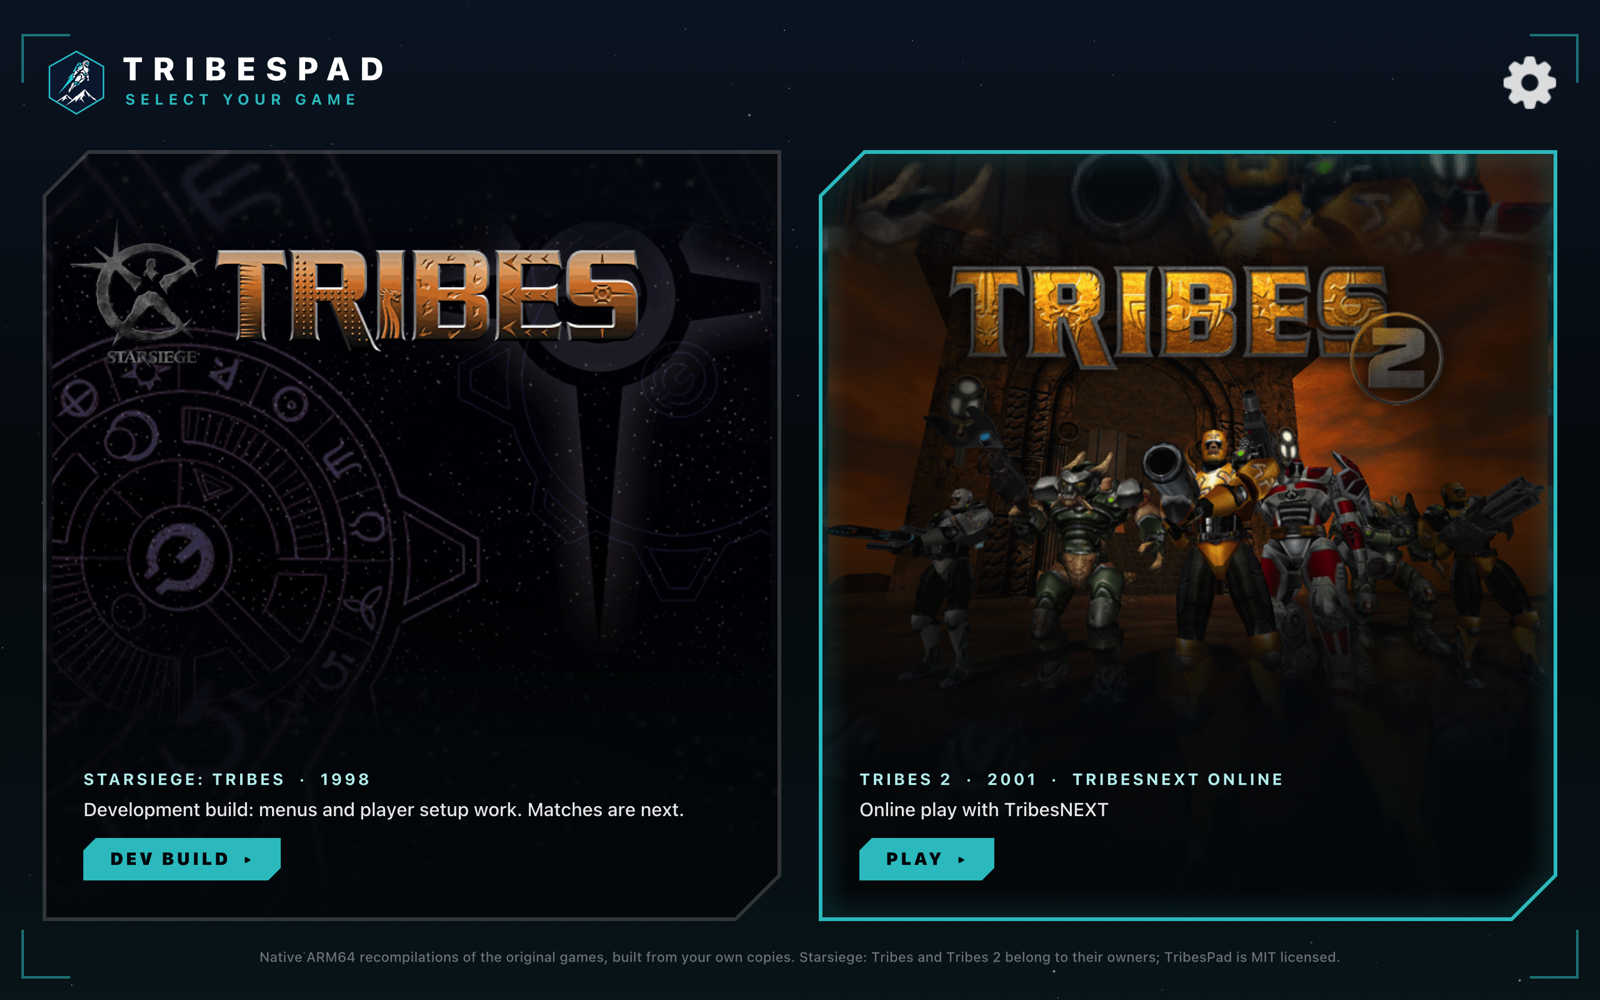
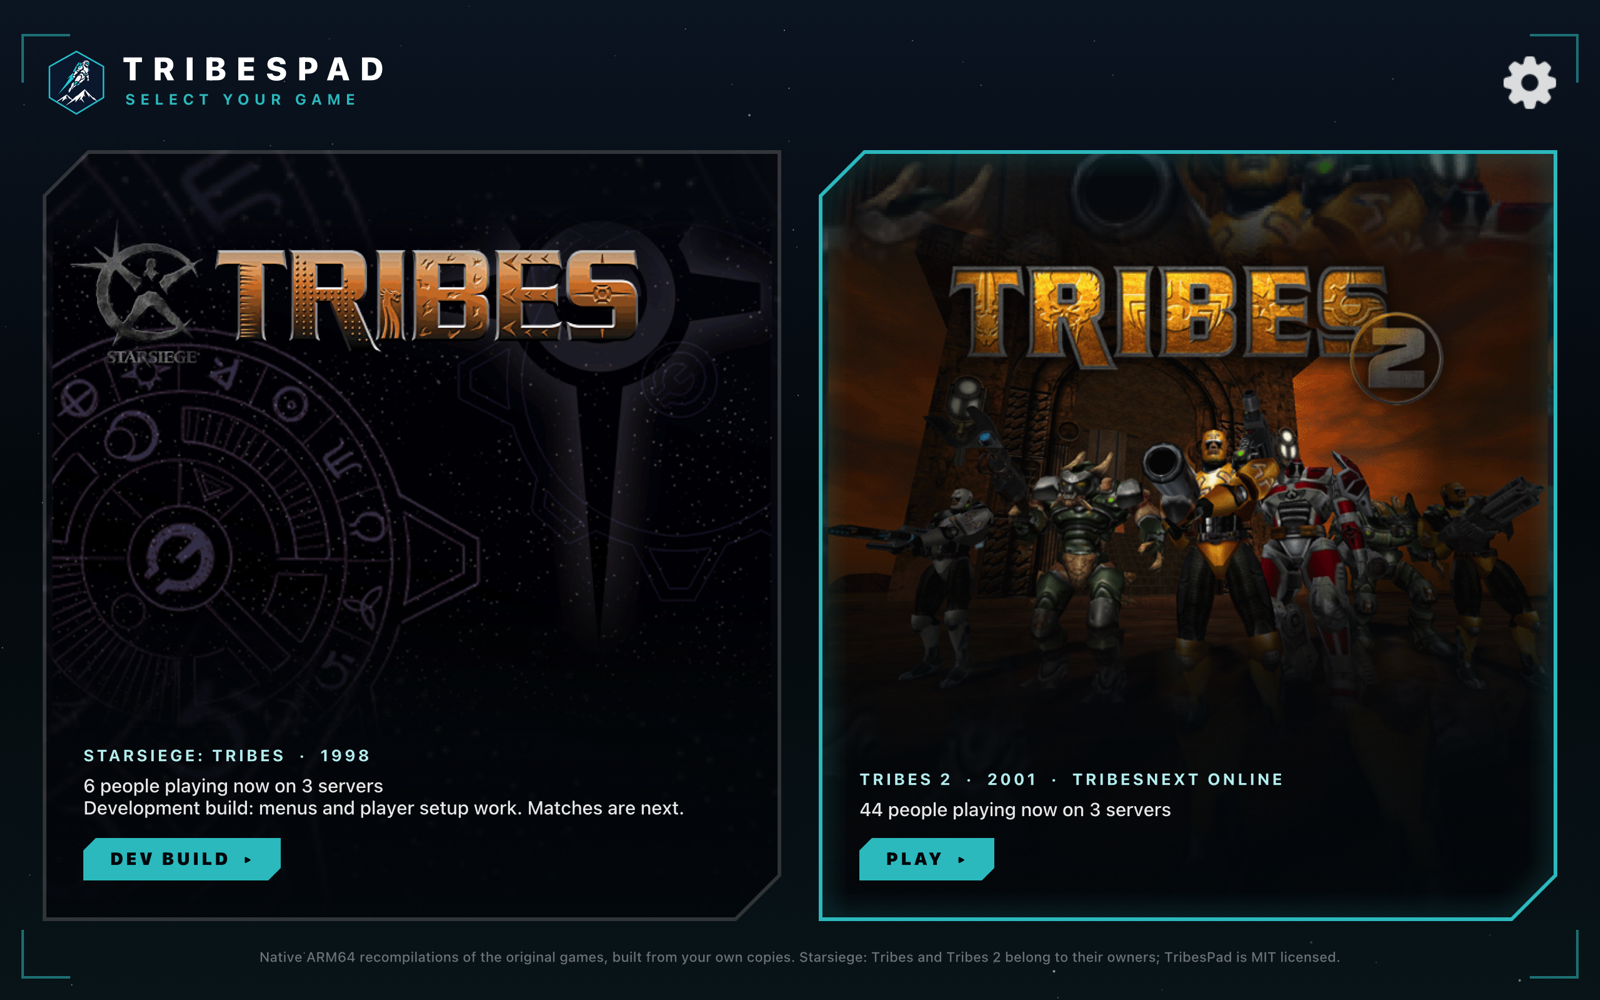
Pickers: Starsiege card shows who is playing Tribes 1 now (t1_live.c, community masters and the game's own server ping)

Changed region(s): [[0.0312, 0.744, 0.4375, 0.837], [0.5312, 0.806, 0.7188, 0.837]]

diff --git a/port/apple/t1_live.c b/port/apple/t1_live.c
@@ -1,0 +1,83 @@
+/* Who is playing Starsiege: Tribes right now, for the game picker. The
+ * community masters (t1m1-3.tribes1.co and t1m1-3.pu.net, port 28000) list
+ * servers; each server answers the game's own ping with its player count and
+ * name. The wire format follows the masters' maintainer's library, t1net-go
+ * (github.com/TheKigen/t1net-go, master.go and tribes.go, Apache-2.0):
+ *   query, to a master or a server: 10 03 FF 00 key(2, LE) 00 00
+ *   master reply: 10 06 n total key(2) 00 66 name(pascal) motd(pascal)
+ *                 count(2, BE) then count x [06 ip(4) port(2, LE)], n of total
+ *   server reply: 10 04 ?? F0 key(2) max players version(2, LE) name(zero-terminated)
+ * Read-only UDP, the same questions the game's own browser asks. */
+#include "t1_live.h"
+#include <arpa/inet.h>
+#include <fcntl.h>
+#include <netdb.h>
+#include <poll.h>
+#include <stdlib.h>
+#include <string.h>
+#include <sys/socket.h>
+#include <time.h>
+#include <unistd.h>
+
+static const char *const masters[]={"t1m1.tribes1.co","t1m2.tribes1.co","t1m3.tribes1.co","t1m1.pu.net","t1m2.pu.net","t1m3.pu.net"};
+typedef struct {struct sockaddr_in address;int answered,players;char name[64];} Server;
+
+static long now_ms(void){struct timespec t;clock_gettime(CLOCK_MONOTONIC,&t);return t.tv_sec*1000L+t.tv_nsec/1000000L;}
+static int same(const struct sockaddr_in *a,const struct sockaddr_in *b){return a->sin_addr.s_addr==b->sin_addr.s_addr&&a->sin_port==b->sin_port;}
+
+int tb_t1_live(TBT1Live *out,int timeout_ms){
+    memset(out,0,sizeof *out);
+    int fd=socket(AF_INET,SOCK_DGRAM,0);if(fd<0)return 0;
+    fcntl(fd,F_SETFL,fcntl(fd,F_GETFL)|O_NONBLOCK);
+    uint16_t key=(uint16_t)arc4random();
+    uint8_t query[8]={0x10,0x03,0xff,0x00,(uint8_t)key,(uint8_t)(key>>8),0,0};
+    /* Ask every master; their lists overlap, so servers are merged. */
+    struct sockaddr_in master_addresses[6];int master_count=0;
+    for(unsigned i=0;i<sizeof masters/sizeof *masters;i++){
+        struct addrinfo hints={0},*found=NULL;hints.ai_family=AF_INET;hints.ai_socktype=SOCK_DGRAM;
+        if(getaddrinfo(masters[i],"28000",&hints,&found)||!found)continue;
+        struct sockaddr_in a=*(struct sockaddr_in *)found->ai_addr;freeaddrinfo(found);
+        int duplicate=0;for(int j=0;j<master_count;j++)if(same(&a,&master_addresses[j]))duplicate=1;
+        if(duplicate)continue;master_addresses[master_count++]=a;
+        sendto(fd,query,sizeof query,0,(struct sockaddr *)&a,sizeof a);
+    }
+    Server *servers=calloc(1000,sizeof *servers);int count=0;if(!servers){close(fd);return 0;}
+    uint8_t d[65536];long master_end=now_ms()+timeout_ms/2,end=now_ms()+timeout_ms;int pinged=0;
+    while(now_ms()<end){
+        /* Once the masters have had their time, ping every listed server once. */
+        if(!pinged&&now_ms()>=master_end){pinged=1;
+            for(int i=0;i<count;i++)sendto(fd,query,sizeof query,0,(struct sockaddr *)&servers[i].address,sizeof servers[i].address);
+            if(!count)break;}
+        struct pollfd p={fd,POLLIN,0};long left=(pinged?end:master_end)-now_ms();
+        if(poll(&p,1,(int)(left>0?left:1))<=0)continue;
+        struct sockaddr_in from;socklen_t length=sizeof from;
+        ssize_t n=recvfrom(fd,d,sizeof d,0,(struct sockaddr *)&from,&length);
+        if(n<8||d[0]!=0x10||d[4]!=(uint8_t)key||d[5]!=(uint8_t)(key>>8))continue;
+        if(d[1]==0x06&&d[6]==0x00&&d[7]==0x66){
+            out->masters_answered++;size_t i=8;
+            for(int s=0;s<2;s++){if(i>=(size_t)n)break;i+=1+d[i];}  /* name, motd */
+            if(i+2>(size_t)n)continue;unsigned listed=(unsigned)d[i]<<8|d[i+1];i+=2;
+            for(unsigned k=0;k<listed&&i+7<=(size_t)n&&count<1000;k++,i+=7){
+                if(d[i]!=6)break;struct sockaddr_in a={0};a.sin_len=sizeof a;a.sin_family=AF_INET;
+                memcpy(&a.sin_addr,d+i+1,4);a.sin_port=htons((uint16_t)(d[i+5]|d[i+6]<<8));
+                int duplicate=0;for(int j=0;j<count;j++)if(same(&a,&servers[j].address))duplicate=1;
+                if(!duplicate)servers[count++].address=a;
+            }
+        } else if(d[1]==0x04&&n>=10&&d[3]==0xf0){
+            for(int i=0;i<count;i++)if(same(&from,&servers[i].address)&&!servers[i].answered){
+                servers[i].answered=1;servers[i].players=d[7];
+                size_t len=0;while(10+len<(size_t)n&&d[10+len]&&len<sizeof servers[i].name-1)len++;
+                memcpy(servers[i].name,d+10,len);servers[i].name[len]=0;break;
+            }
+        }
+    }
+    close(fd);
+    out->servers_listed=count;
+    for(int i=0;i<count;i++)if(servers[i].answered){
+        out->servers_answered++;
+        if(servers[i].players>0){out->people+=servers[i].players;out->busy_servers++;
+            if(servers[i].players>out->top_players){out->top_players=servers[i].players;strlcpy(out->top_name,servers[i].name,sizeof out->top_name);}}
+    }
+    free(servers);
+    return out->masters_answered>0;
+}

diff --git a/port/apple/launcher_mac.m b/port/apple/launcher_mac.m
@@ -16,6 +16,7 @@
 #include <stdio.h>
 #include <unistd.h>
 #include "starsiege_paths.h"
+#include "t1_live.h"
 
 static NSString * const TBRepository=@"https://github.com/chrissotraidis/tribespad";
 static NSString * const TBStarsiegePlan=@"https://github.com/chrissotraidis/tribespad/blob/main/docs/STARSIEGE-TRIBES-PLAN.md";
@@ -226,8 +227,20 @@ static TBChoice tb_choice;
     pad.dpad.left.pressedChangedHandler=^(GCControllerButtonInput *b,float v,BOOL pressed){(void)b;(void)v;if(pressed)[weak moveFocus:-1];};
     pad.dpad.right.pressedChangedHandler=^(GCControllerButtonInput *b,float v,BOOL pressed){(void)b;(void)v;if(pressed)[weak moveFocus:1];};
 }
+/* People playing Starsiege: Tribes now, from the community masters (t1_live.c). */
+-(void)loadStarsiegePlayers{
+    __weak TBPickerView *weak=self;NSString *base=self.cards[0].statusText;
+    dispatch_async(dispatch_get_global_queue(QOS_CLASS_UTILITY,0),^{
+        TBT1Live live;int ok=tb_t1_live(&live,4000);
+        dispatch_async(dispatch_get_main_queue(),^{TBPickerView *me=weak;if(!me||!ok)return;
+            NSString *now=live.people?[NSString stringWithFormat:@"%d %@ playing now on %d %@",live.people,live.people==1?@"person":@"people",live.busy_servers,live.busy_servers==1?@"server":@"servers"]:
+                [NSString stringWithFormat:@"Nobody on the %d Tribes 1 servers right now",live.servers_answered];
+            me.cards[0].statusText=[NSString stringWithFormat:@"%@\n%@",now,base];});
+    });
+}
 /* People playing Tribes 2 now (players minus bots, TribesNEXT list.json). */
 -(void)loadPlayers{
+    [self loadStarsiegePlayers];
     NSMutableURLRequest *r=[NSMutableURLRequest requestWithURL:[NSURL URLWithString:@"https://www.tribesnext.com/list.json"]];
     [r setValue:@"TribesPad" forHTTPHeaderField:@"User-Agent"];r.timeoutInterval=8;__weak TBPickerView *weak=self;
     [[NSURLSession.sharedSession dataTaskWithRequest:r completionHandler:^(NSData *data,NSURLResponse *resp,NSError *error){
@@ -264,6 +277,8 @@ static void tb_snapshot(NSString *path){
     CGFloat w=1280,h=800;const char *size=getenv("TRIBESPAD_PICKER_SIZE");if(size){double a,b;if(sscanf(size,"%lfx%lf",&a,&b)==2){w=a;h=b;}}
     TBPickerView *view=[[TBPickerView alloc] initWithFrame:NSMakeRect(0,0,w,h)];[view layout];
     view.cards[1].statusText=@"Online play with TribesNEXT";
+    if(getenv("TRIBESPAD_PICKER_LIVE")){[view loadPlayers];NSDate *until=[NSDate dateWithTimeIntervalSinceNow:6];
+        while(until.timeIntervalSinceNow>0)[NSRunLoop.mainRunLoop runMode:NSDefaultRunLoopMode beforeDate:[NSDate dateWithTimeIntervalSinceNow:.1]];[view layout];}
     NSBitmapImageRep *rep=[[NSBitmapImageRep alloc] initWithBitmapDataPlanes:NULL pixelsWide:(NSInteger)(w*2) pixelsHigh:(NSInteger)(h*2) bitsPerSample:8 samplesPerPixel:4 hasAlpha:YES isPlanar:NO colorSpaceName:NSCalibratedRGBColorSpace bytesPerRow:0 bitsPerPixel:0];
     rep.size=NSMakeSize(w,h);NSGraphicsContext *g=[NSGraphicsContext graphicsContextWithBitmapImageRep:rep];
     CGContextRef cg=g.CGContext;CGContextTranslateCTM(cg,0,h);CGContextScaleCTM(cg,1,-1);

diff --git a/scripts/build-ipad-engine.py b/scripts/build-ipad-engine.py
@@ -409,7 +409,7 @@ else:
  config='#define TB_BUNDLED_GAME_DATA 0\nstatic const char *launch_workdir='+json.dumps(str(R))+';\nstatic char *launch_arguments[]={'+','.join(json.dumps(p) for p in args)+',NULL};\n'
 (out/'mobile-engine-launch-config.h').write_text(config)
 host=[R/'port/apple/mobile_engine_main.m',R/'port/apple/mobile_game_paths.m',R/'port/apple/sdl_main.c',R/'port/apple/gl4es_context.c',R/'port/core/input.c']
-host+=[R/'port/apple/desktop_controls.c'] if mac else [R/'port/apple/mobile_controls.m',R/'port/apple/launcher.m',R/'port/apple/starsiege_paths.m',R/'port/apple/mobile_controls.c',R/'port/apple/live_servers.m',R/'port/apple/content_area.m']
+host+=[R/'port/apple/desktop_controls.c'] if mac else [R/'port/apple/mobile_controls.m',R/'port/apple/launcher.m',R/'port/apple/starsiege_paths.m',R/'port/apple/t1_live.c',R/'port/apple/mobile_controls.c',R/'port/apple/live_servers.m',R/'port/apple/content_area.m']
 if a.angle:host.append(R/'port/apple/angle_sdl.c')
 command=['clang','-target',target,'-isysroot',sdk,'-O2','-I',str(out),*sdl_flags,*gl_flags,'-DNOX11','-DNOEGL','-DNO_LOADER','-DDEFAULT_ES=2','-isystem',str(R/'ref/gl4es/src'),*map(str,host),*objects,*([str(a.starsiege_object.resolve()),'-framework','ImageIO'] if a.starsiege_object and not mac else []),*gl_libraries,*libraries,*math['libraries'],*[str(R/n) for n in http['libraries']],str(R/al['library']),str(zbuild/'libz-ng.a'),'-lz','-lc++','-framework','Foundation','-framework','GameController','-framework','AVFoundation','-framework','CoreGraphics','-framework','CoreText','-framework','CoreFoundation','-framework','SystemConfiguration','-framework','AudioToolbox','-framework','CoreAudio',*(['-framework','AppKit','-framework','Metal','-framework','QuartzCore'] if mac else ['-framework','SafariServices']),'-o',str(exe)]
 command[1:1]=['-fobjc-arc']
@@ -417,7 +417,7 @@ with (out/'link.log').open('w') as log:subprocess.run(command,stdout=log,stderr=
 identifier='com.tribespad.full-engine.ipad'
 if mac:
  picker=contents/'MacOS'/'TribesPad'
- subprocess.run(['clang','-target',target,'-isysroot',sdk,'-fobjc-arc','-O2','-Wall','-Wextra','-Werror',str(R/'port/apple/launcher_mac.m'),str(R/'port/apple/starsiege_paths.m'),'-framework','AppKit','-framework','QuartzCore','-framework','GameController','-o',str(picker)],check=True)
+ subprocess.run(['clang','-target',target,'-isysroot',sdk,'-fobjc-arc','-O2','-Wall','-Wextra','-Werror',str(R/'port/apple/launcher_mac.m'),str(R/'port/apple/starsiege_paths.m'),str(R/'port/apple/t1_live.c'),'-framework','AppKit','-framework','QuartzCore','-framework','GameController','-o',str(picker)],check=True)
 from app_icon import compile_icon
 if mac:
  icon_keys=compile_icon(resources,'macos',minimum='12.0')

diff --git a/port/apple/launcher.m b/port/apple/launcher.m
@@ -12,6 +12,7 @@
 #include <stdlib.h>
 #include <string.h>
 #include "starsiege_paths.h"
+#include "t1_live.h"
 
 static NSString * const TBLaunchStarsiegePlan=@"https://github.com/chrissotraidis/tribespad/blob/main/docs/STARSIEGE-TRIBES-PLAN.md";
 static NSString * const TBLaunchRepository=@"https://github.com/chrissotraidis/tribespad";
@@ -259,8 +260,21 @@ static UIBezierPath *tb_chamfer(CGRect r,CGFloat c){
     [UIView animateWithDuration:.3 animations:^{self.view.alpha=0;card.transform=CGAffineTransformMakeScale(1.04,1.04);}
         completion:^(BOOL f){(void)f;tb_launch_game=game;tb_launch_chosen=YES;}];
 }
+/* People playing Starsiege: Tribes now, from the community masters (t1_live.c). */
+-(void)loadStarsiegePlayers {
+    __weak TBLauncherController *weak=self;NSString *base=self.cards[0].status.text;
+    dispatch_async(dispatch_get_global_queue(QOS_CLASS_UTILITY,0),^{
+        TBT1Live live;int ok=tb_t1_live(&live,4000);
+        dispatch_async(dispatch_get_main_queue(),^{
+            TBLauncherController *me=weak;if(!me||!ok)return;TBLauncherCard *card=me.cards[0];
+            NSString *now=live.people?[NSString stringWithFormat:@"%d %@ playing now on %d %@",live.people,live.people==1?@"person":@"people",live.busy_servers,live.busy_servers==1?@"server":@"servers"]:
+                [NSString stringWithFormat:@"Nobody on the %d Tribes 1 servers right now",live.servers_answered];
+            card.status.text=[NSString stringWithFormat:@"%@\n%@",now,base];[card setNeedsLayout];});
+    });
+}
 /* People playing Tribes 2 now (players minus bots, TribesNEXT list.json). */
 -(void)loadPlayers {
+    [self loadStarsiegePlayers];
     NSMutableURLRequest *r=[NSMutableURLRequest requestWithURL:[NSURL URLWithString:@"https://www.tribesnext.com/list.json"]];
     [r setValue:@"TribesPad" forHTTPHeaderField:@"User-Agent"];r.timeoutInterval=8;
     __weak TBLauncherController *weak=self;

diff --git a/port/apple/t1_live.h b/port/apple/t1_live.h
@@ -1,0 +1,12 @@
+/* Starsiege: Tribes population from the community masters (t1_live.c). */
+#ifndef TB_T1_LIVE_H
+#define TB_T1_LIVE_H
+typedef struct {
+    int masters_answered,servers_listed,servers_answered;
+    int people,busy_servers;   /* players on servers that answered; servers with anyone */
+    int top_players;char top_name[64];
+} TBT1Live;
+/* Blocking, up to timeout_ms (half for the masters, half for the servers).
+   Call it off the main thread. 1 when at least one master answered. */
+int tb_t1_live(TBT1Live *out,int timeout_ms);
+#endif

diff --git a/docs/LAUNCHER-PLAN.md b/docs/LAUNCHER-PLAN.md
@@ -64,8 +64,8 @@ The picker is built; Starsiege enters it one card state at a time. Each stage na
 - **P0, built:** port/apple/launcher.m runs in enter_engine before either engine starts. Tribes 2 plays, with its live player count from list.json. Starsiege shows its own title art and an amber "In development" label. The gear at the top right has Open Tribes 2 Directly and a GitHub link, and Settings → Display → Game Picker at Launch brings the picker back. Keyboard (arrows, 1 and 2, Return) and controller (D-pad, A) both work. Exit: Chris confirms it on the iPad.
 - **P1, invisible groundwork (with G0 and G1):** the per-game profile from section 3 and a storage root passed as a parameter, with Tribes 2 producing identical events in the touch-route replay. Starsiege's input is now the community 1.41 installer (162 MB), pinned in config/starsiege/inputs.json and prepared by scripts/starsiege/prepare-inputs.py (done 24 October). The picker's art step takes BrightLogo.png from its base/Shell.zip, so the freeware installer is no longer needed for the card. Add the TBGame value that launcher.m returns to enter_engine, still always Tribes 2. Exit: a Tribes 2 build plays exactly as before, and a fresh-checkout build shows the Starsiege art.
 - **P2, dev builds (G2):** a build option, build-tribespad.sh --games tribes2,starsiege, bundles the Starsiege engine and data under Application Support/TribesPad/Starsiege. In those builds the card reads "Dev build · main menu" and starts it: on the Mac by exec'ing a separate StarsiegeEngine, on iPad through a second entry point. Symbol prefixes and separate runtime tables keep the two engines apart (section 4). The card adds the Tribes 1 population from t1_live.c. Exit: the Starsiege main menu appears on the Mac from the picker, and a default build still shows "In development".
-  - **Mac half built (24 October):** the Mac app now opens on the picker too. port/apple/launcher_mac.m is the AppKit twin of launcher.m (same layout, art, focus, gear menu, keyboard and controller) and is the app's executable; it execs the chosen engine, Tribes 2's TribesPadEngine or StarsiegeEngine, both in Contents/MacOS, so each starts in a fresh process. "Open Tribes 2 Directly" skips it. build-tribespad.sh --platform macos --games tribes2,starsiege runs scripts/starsiege/bundle_mac.py, which adds the engine (built at -O1, ANGLE from the app's Contents/Frameworks) and the 1.41 game folder with TribesPad's defaults; the picker copies that folder to Application Support/TribesPad/Starsiege on first launch and whenever the bundled copy changes, keeping the player's config, temp and recordings. Checked headless on this Mac: the bundled picker shows "Dev build" ([snapshot](validation/mac-picker-starsiege-dev-2026-10-24.png)), choosing Starsiege (TRIBESPAD_PICK=starsiege) execs the bundled engine, which loads ANGLE from the app and draws the main menu with its cursor, and a build without Starsiege shows "In development". Still open: a visible run on the Mac (owner's go-ahead), Tribes 2 started through the picker on screen, the iPad entry point, and the Tribes 1 population.
-  - **iPad half built (24 October, same day):** scripts/starsiege/build_engine.py --platform device|simulator compiles the same engine for iOS and links everything, including Starsiege's own copies of TribesPad's runtime and SDL backend, into one relocatable object with ld -r that exports only starsiege_mobile_engine_main. All its other symbols are local, so nothing collides with Tribes 2's copies; SDL, GL4ES, ANGLE, OpenAL and the math libraries stay undefined and resolve against the app's, so the process has one of each (section 4's prefixing, done by the linker). build-tribespad.sh --games tribes2,starsiege passes it to build-ipad-engine.py (--starsiege-object), which links it, defines TB_STARSIEGE and bundles GameData/Starsiege; launcher.m then offers "Dev build" and returns the choice, and enter_engine calls the entry point with paths from port/apple/starsiege_paths.m (shared with the Mac picker). iOS allows one window per display, so every Starsiege window draws into the one SDL window, and content_area.m's new tb_content_fix_game_size makes the game area exactly 800x600, 4:3 and centred, for the system to scale up. A touch moves the game's cursor to the finger and clicks; trackpads and mice stay relative. On the iPad Pro (backup, install and read-back each time, Application Support identical): Starsiege started through TRIBESPAD_PICK=starsiege, drew its main menu ([frame](validation/starsiege-ipad-main-menu-2026-10-24.png)) at about 100 fps, and Tribes 2 still started from the same build. The binary grew from 66 to 99.7 MB and the app to 992 MB. One of the first three launches hung in GL4ES (draw_renderlist) right after the first frame; Starsiege rebuilds its WGL context twice while starting, so starsiege_gl.c now parks a deleted context and reuses it for the next one on the same drawable, after which five launches in a row ran cleanly. Game controllers drive the game's own default controls (starsiege_controller.m: left stick WASD, right stick the mouse, triggers fire and jet, A jump, B crouch, X grenade, Y repair kit, RB next weapon, LB zoom, Menu Escape, View Tab), checked headless with scripted pad input. Open: touch, controller and the iPad picker card untested by hand; the frame is 800x600 only.
+  - **Mac half built (24 October):** the Mac app now opens on the picker too. port/apple/launcher_mac.m is the AppKit twin of launcher.m (same layout, art, focus, gear menu, keyboard and controller) and is the app's executable; it execs the chosen engine, Tribes 2's TribesPadEngine or StarsiegeEngine, both in Contents/MacOS, so each starts in a fresh process. "Open Tribes 2 Directly" skips it. build-tribespad.sh --platform macos --games tribes2,starsiege runs scripts/starsiege/bundle_mac.py, which adds the engine (built at -O1, ANGLE from the app's Contents/Frameworks) and the 1.41 game folder with TribesPad's defaults; the picker copies that folder to Application Support/TribesPad/Starsiege on first launch and whenever the bundled copy changes, keeping the player's config, temp and recordings. Checked headless on this Mac: the bundled picker shows "Dev build" ([snapshot](validation/mac-picker-starsiege-dev-2026-10-24.png)), choosing Starsiege (TRIBESPAD_PICK=starsiege) execs the bundled engine, which loads ANGLE from the app and draws the main menu with its cursor, and a build without Starsiege shows "In development". Still open: a visible run on the Mac (owner's go-ahead), Tribes 2 started through the picker on screen, the iPad entry point.
+  - **iPad half built (24 October, same day):** scripts/starsiege/build_engine.py --platform device|simulator compiles the same engine for iOS and links everything, including Starsiege's own copies of TribesPad's runtime and SDL backend, into one relocatable object with ld -r that exports only starsiege_mobile_engine_main. All its other symbols are local, so nothing collides with Tribes 2's copies; SDL, GL4ES, ANGLE, OpenAL and the math libraries stay undefined and resolve against the app's, so the process has one of each (section 4's prefixing, done by the linker). build-tribespad.sh --games tribes2,starsiege passes it to build-ipad-engine.py (--starsiege-object), which links it, defines TB_STARSIEGE and bundles GameData/Starsiege; launcher.m then offers "Dev build" and returns the choice, and enter_engine calls the entry point with paths from port/apple/starsiege_paths.m (shared with the Mac picker). iOS allows one window per display, so every Starsiege window draws into the one SDL window, and content_area.m's new tb_content_fix_game_size makes the game area exactly 800x600, 4:3 and centred, for the system to scale up. A touch moves the game's cursor to the finger and clicks; trackpads and mice stay relative. On the iPad Pro (backup, install and read-back each time, Application Support identical): Starsiege started through TRIBESPAD_PICK=starsiege, drew its main menu ([frame](validation/starsiege-ipad-main-menu-2026-10-24.png)) at about 100 fps, and Tribes 2 still started from the same build. The binary grew from 66 to 99.7 MB and the app to 992 MB. One of the first three launches hung in GL4ES (draw_renderlist) right after the first frame; Starsiege rebuilds its WGL context twice while starting, so starsiege_gl.c now parks a deleted context and reuses it for the next one on the same drawable, after which five launches in a row ran cleanly. Game controllers drive the game's own default controls (starsiege_controller.m: left stick WASD, right stick the mouse, triggers fire and jet, A jump, B crouch, X grenade, Y repair kit, RB next weapon, LB zoom, Menu Escape, View Tab), checked headless with scripted pad input. Both pickers now show the Tribes 1 population on the Starsiege card: port/apple/t1_live.c asks the six community masters (t1m1-3.tribes1.co and t1m1-3.pu.net) and pings every listed server with the game's own query, following the masters' maintainer's t1net-go library; on 24 October at 18:40 JST all six masters answered, 29 servers replied, and 6 people were on 3 of them. Open: touch, controller and the iPad picker card untested by hand; the frame is 800x600 only.
 - **P3, offline play (G3 and G4):** a bot match on the iPad with the Tribes 1 control profile, and Switch Game in both games' menus, which quits through the game's own Quit and sets TribesPad.nextGame. The card reads "Play offline". Exit: a full offline match on the iPad and iPhone, with controls checked by touch, controller and keyboard folio.
 - **P4, online (G5):** the original server browser with the community masters, read-only first. Joining public servers waits for the owner's explicit approval for Tribes 1. The card shows "Play · N playing now". Exit: approval recorded, and a join tested on a live server.
 - **P5, release (G6):** Home Screen quick actions, PadMint's second input description and higher disk estimate, and the player-check run with both configurations. Exit: the player-check passes from a clean checkout with and without Starsiege.
